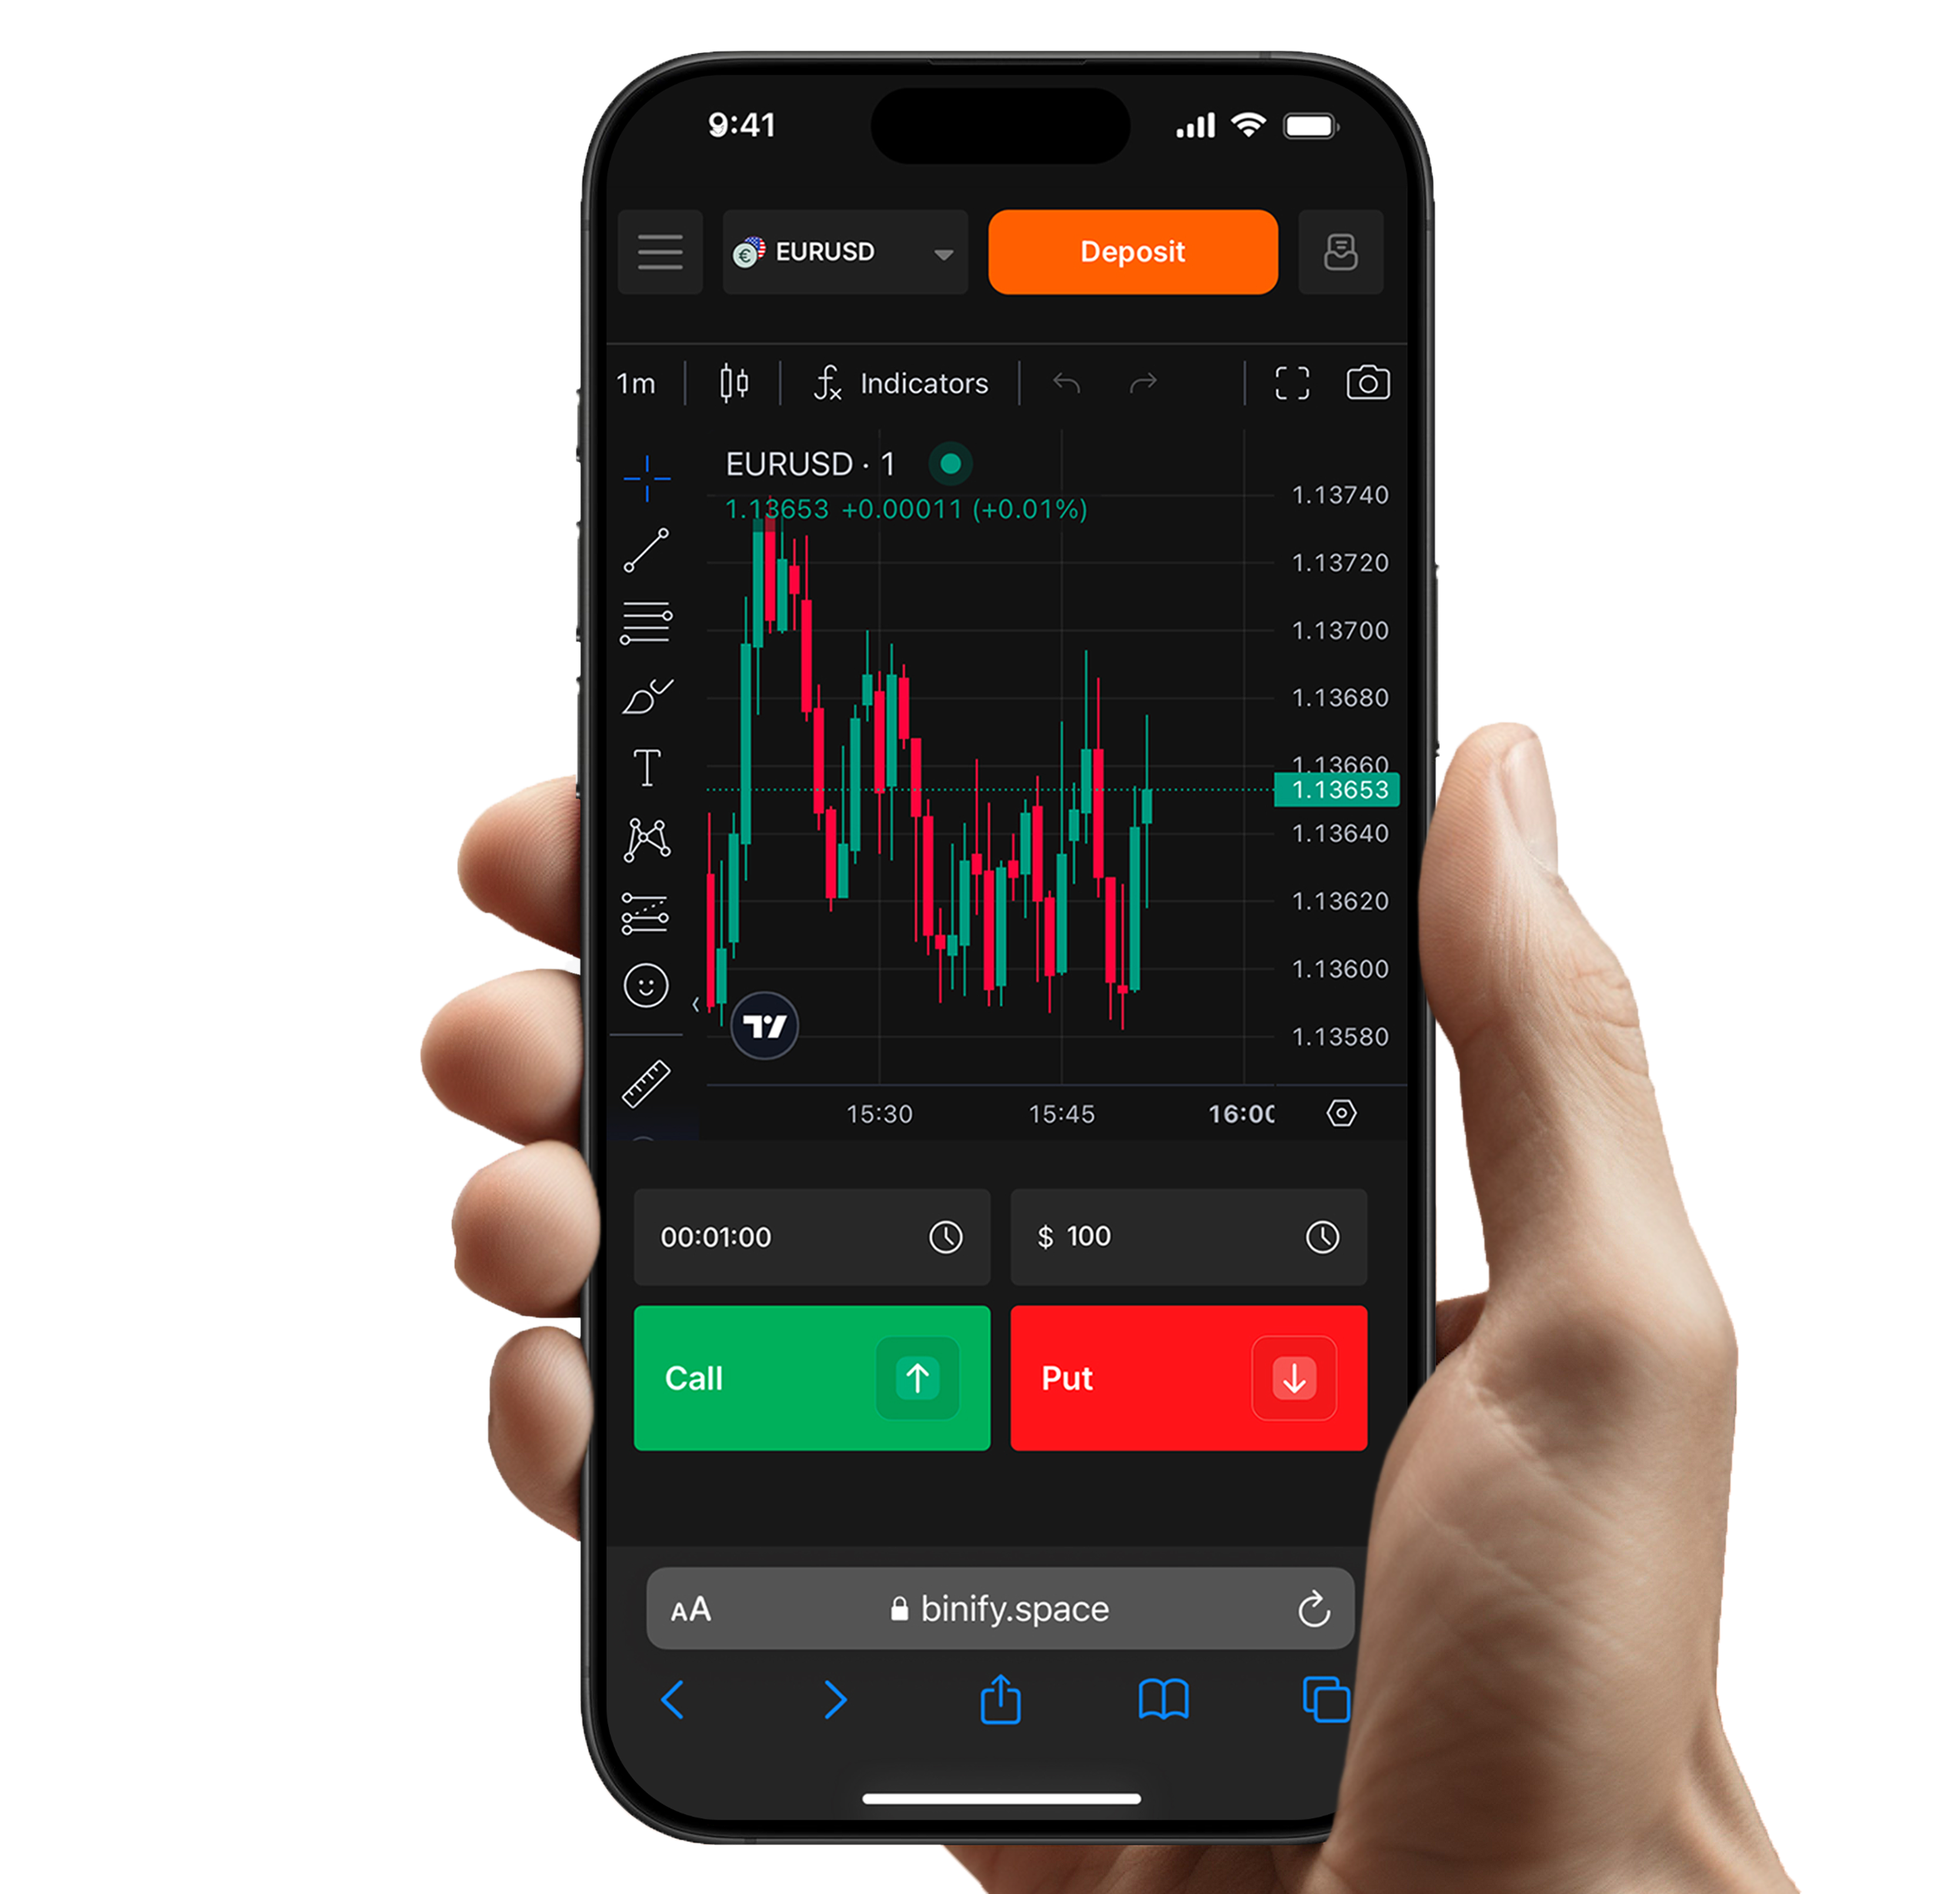
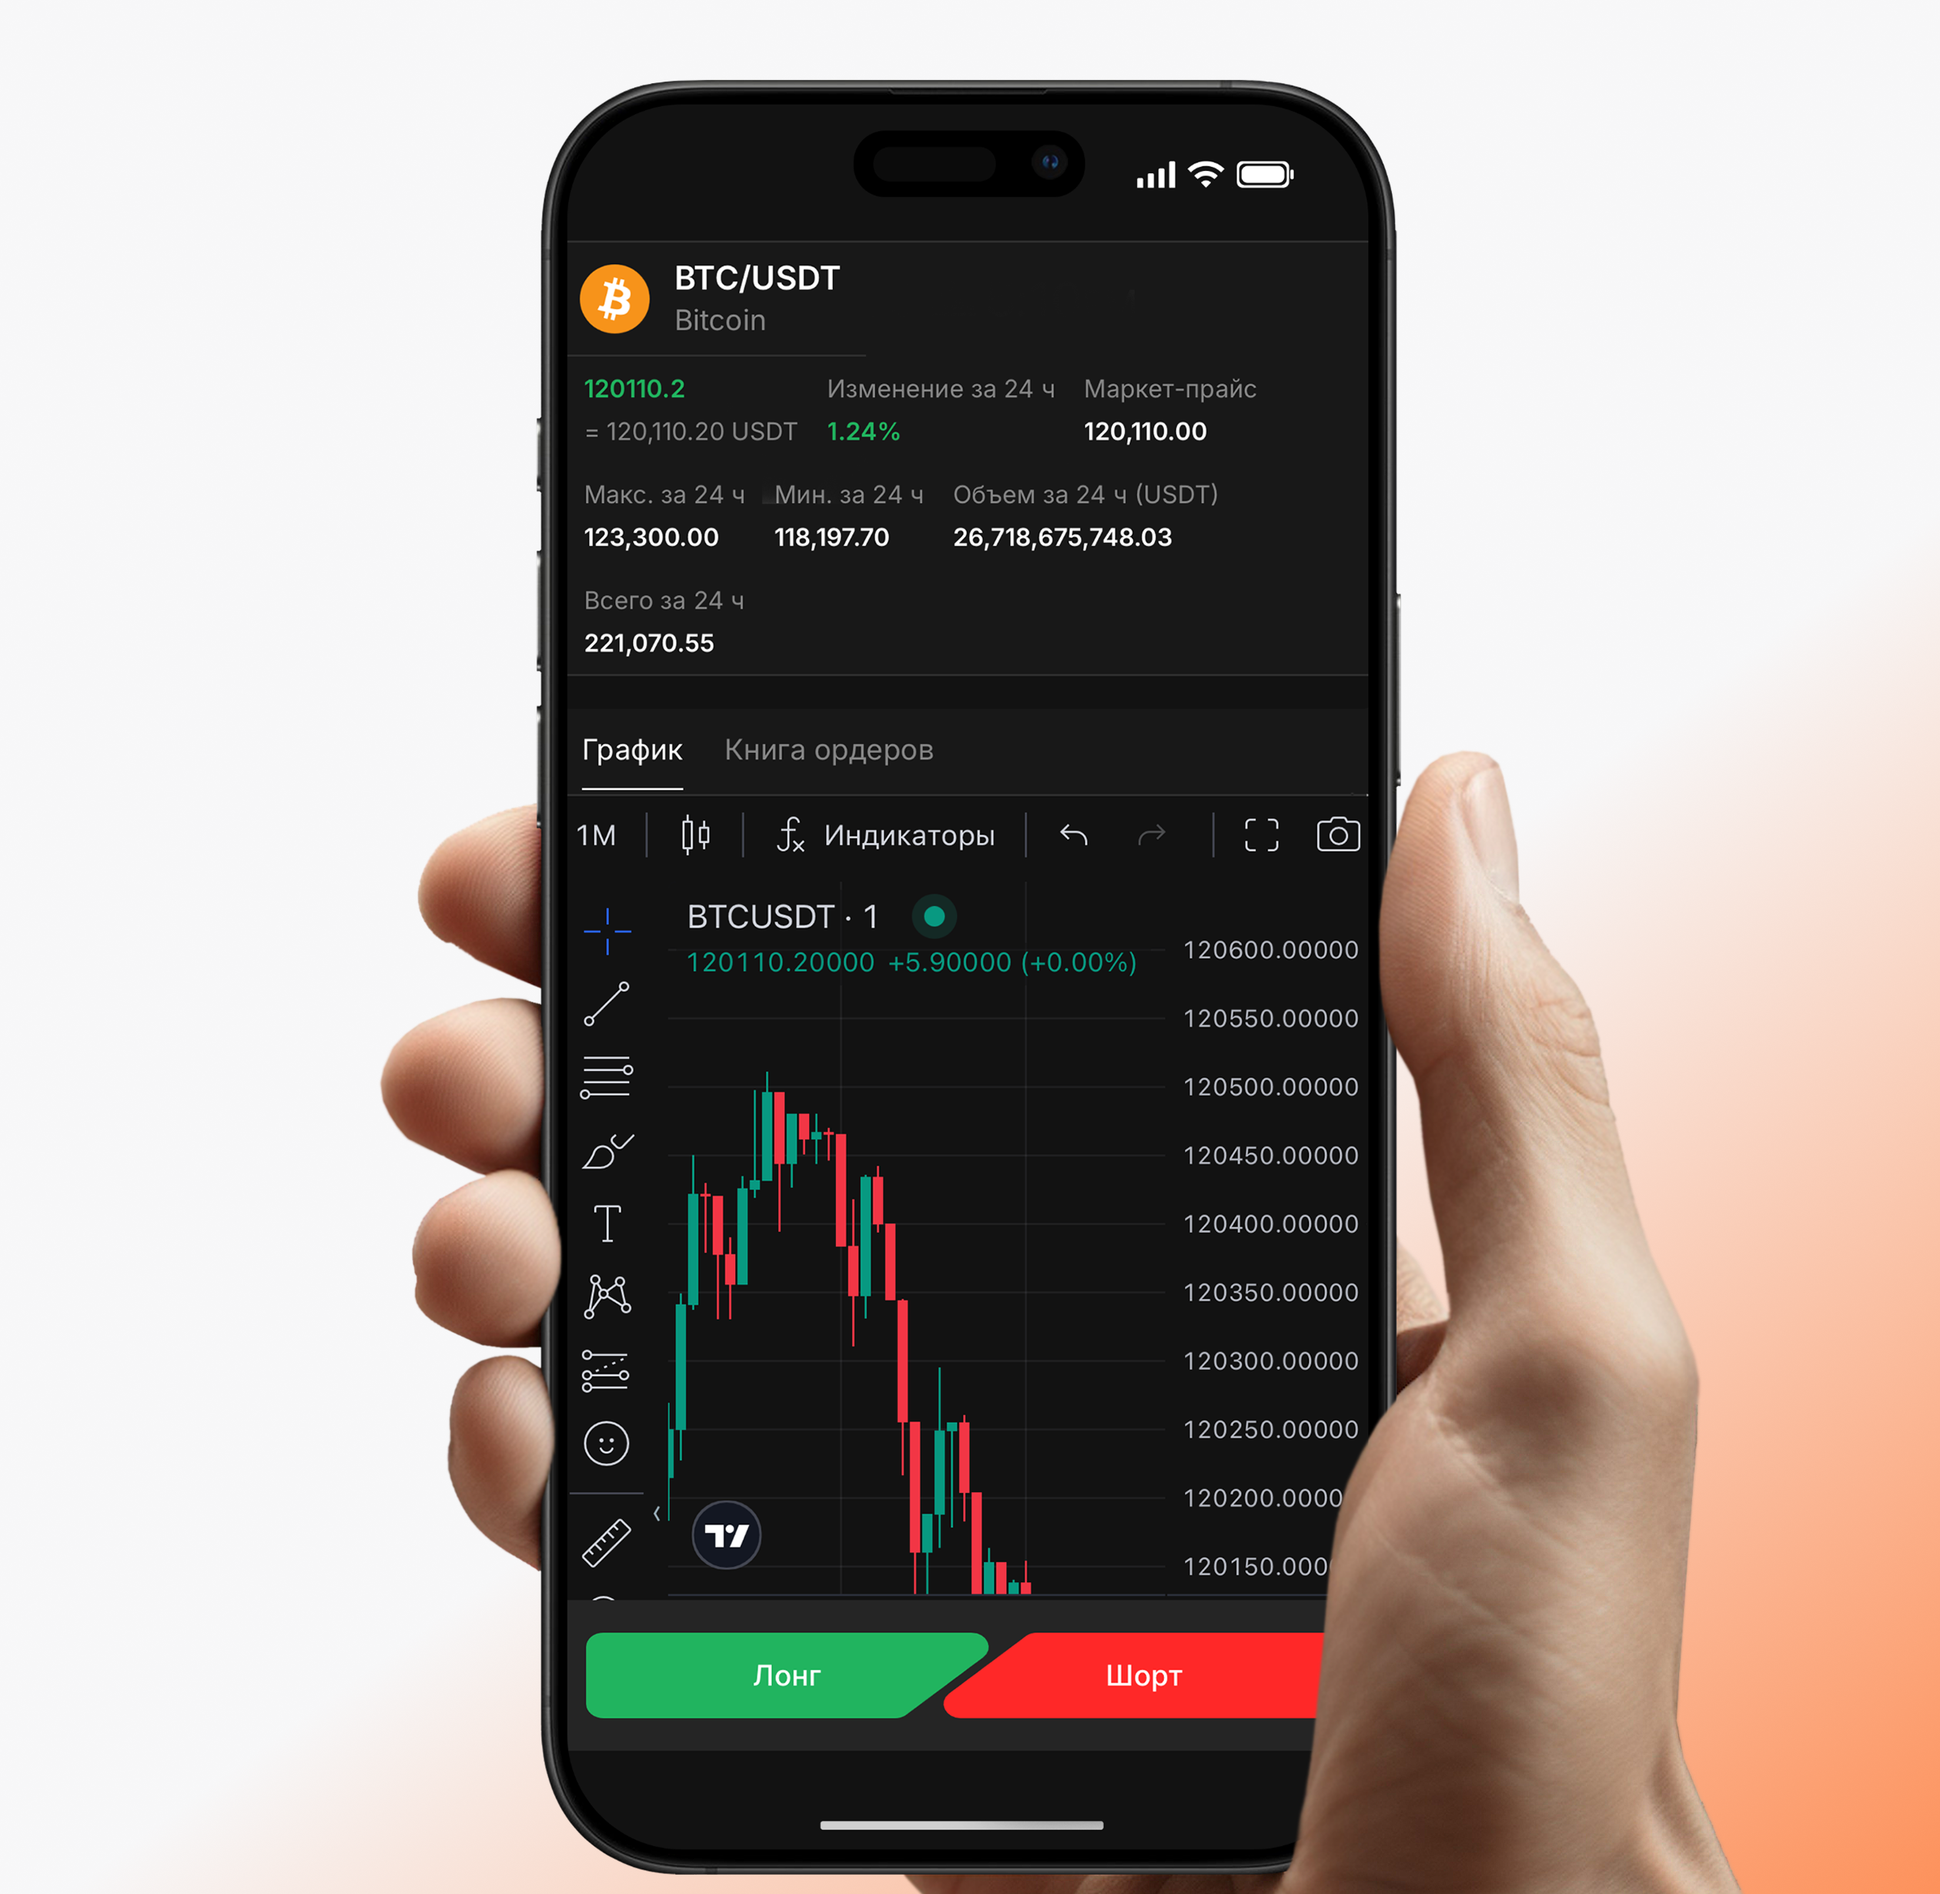
feature/image-changed

diff --git a/src/components/pages/Main/index.sass b/src/components/pages/Main/index.sass
@@ -30,9 +30,7 @@
 
 .hero
 	position: relative
-	background: radial-gradient(circle at 90% 120%, #FF6C22 0%, #ff6c22 8%, #F7F7F8 30%)
-	@include media-breakpoint-up(b1560)
-		background: radial-gradient(circle at calc(1404px + calc(100vw - 1560px) / 2) 120%, #FF6C22 0%, #FF6C22 8%, #F7F7F8 30%)
+	background: #F7F7F8
 	z-index: 1
 	overflow: hidden
 	border-bottom-left-radius: 12px
